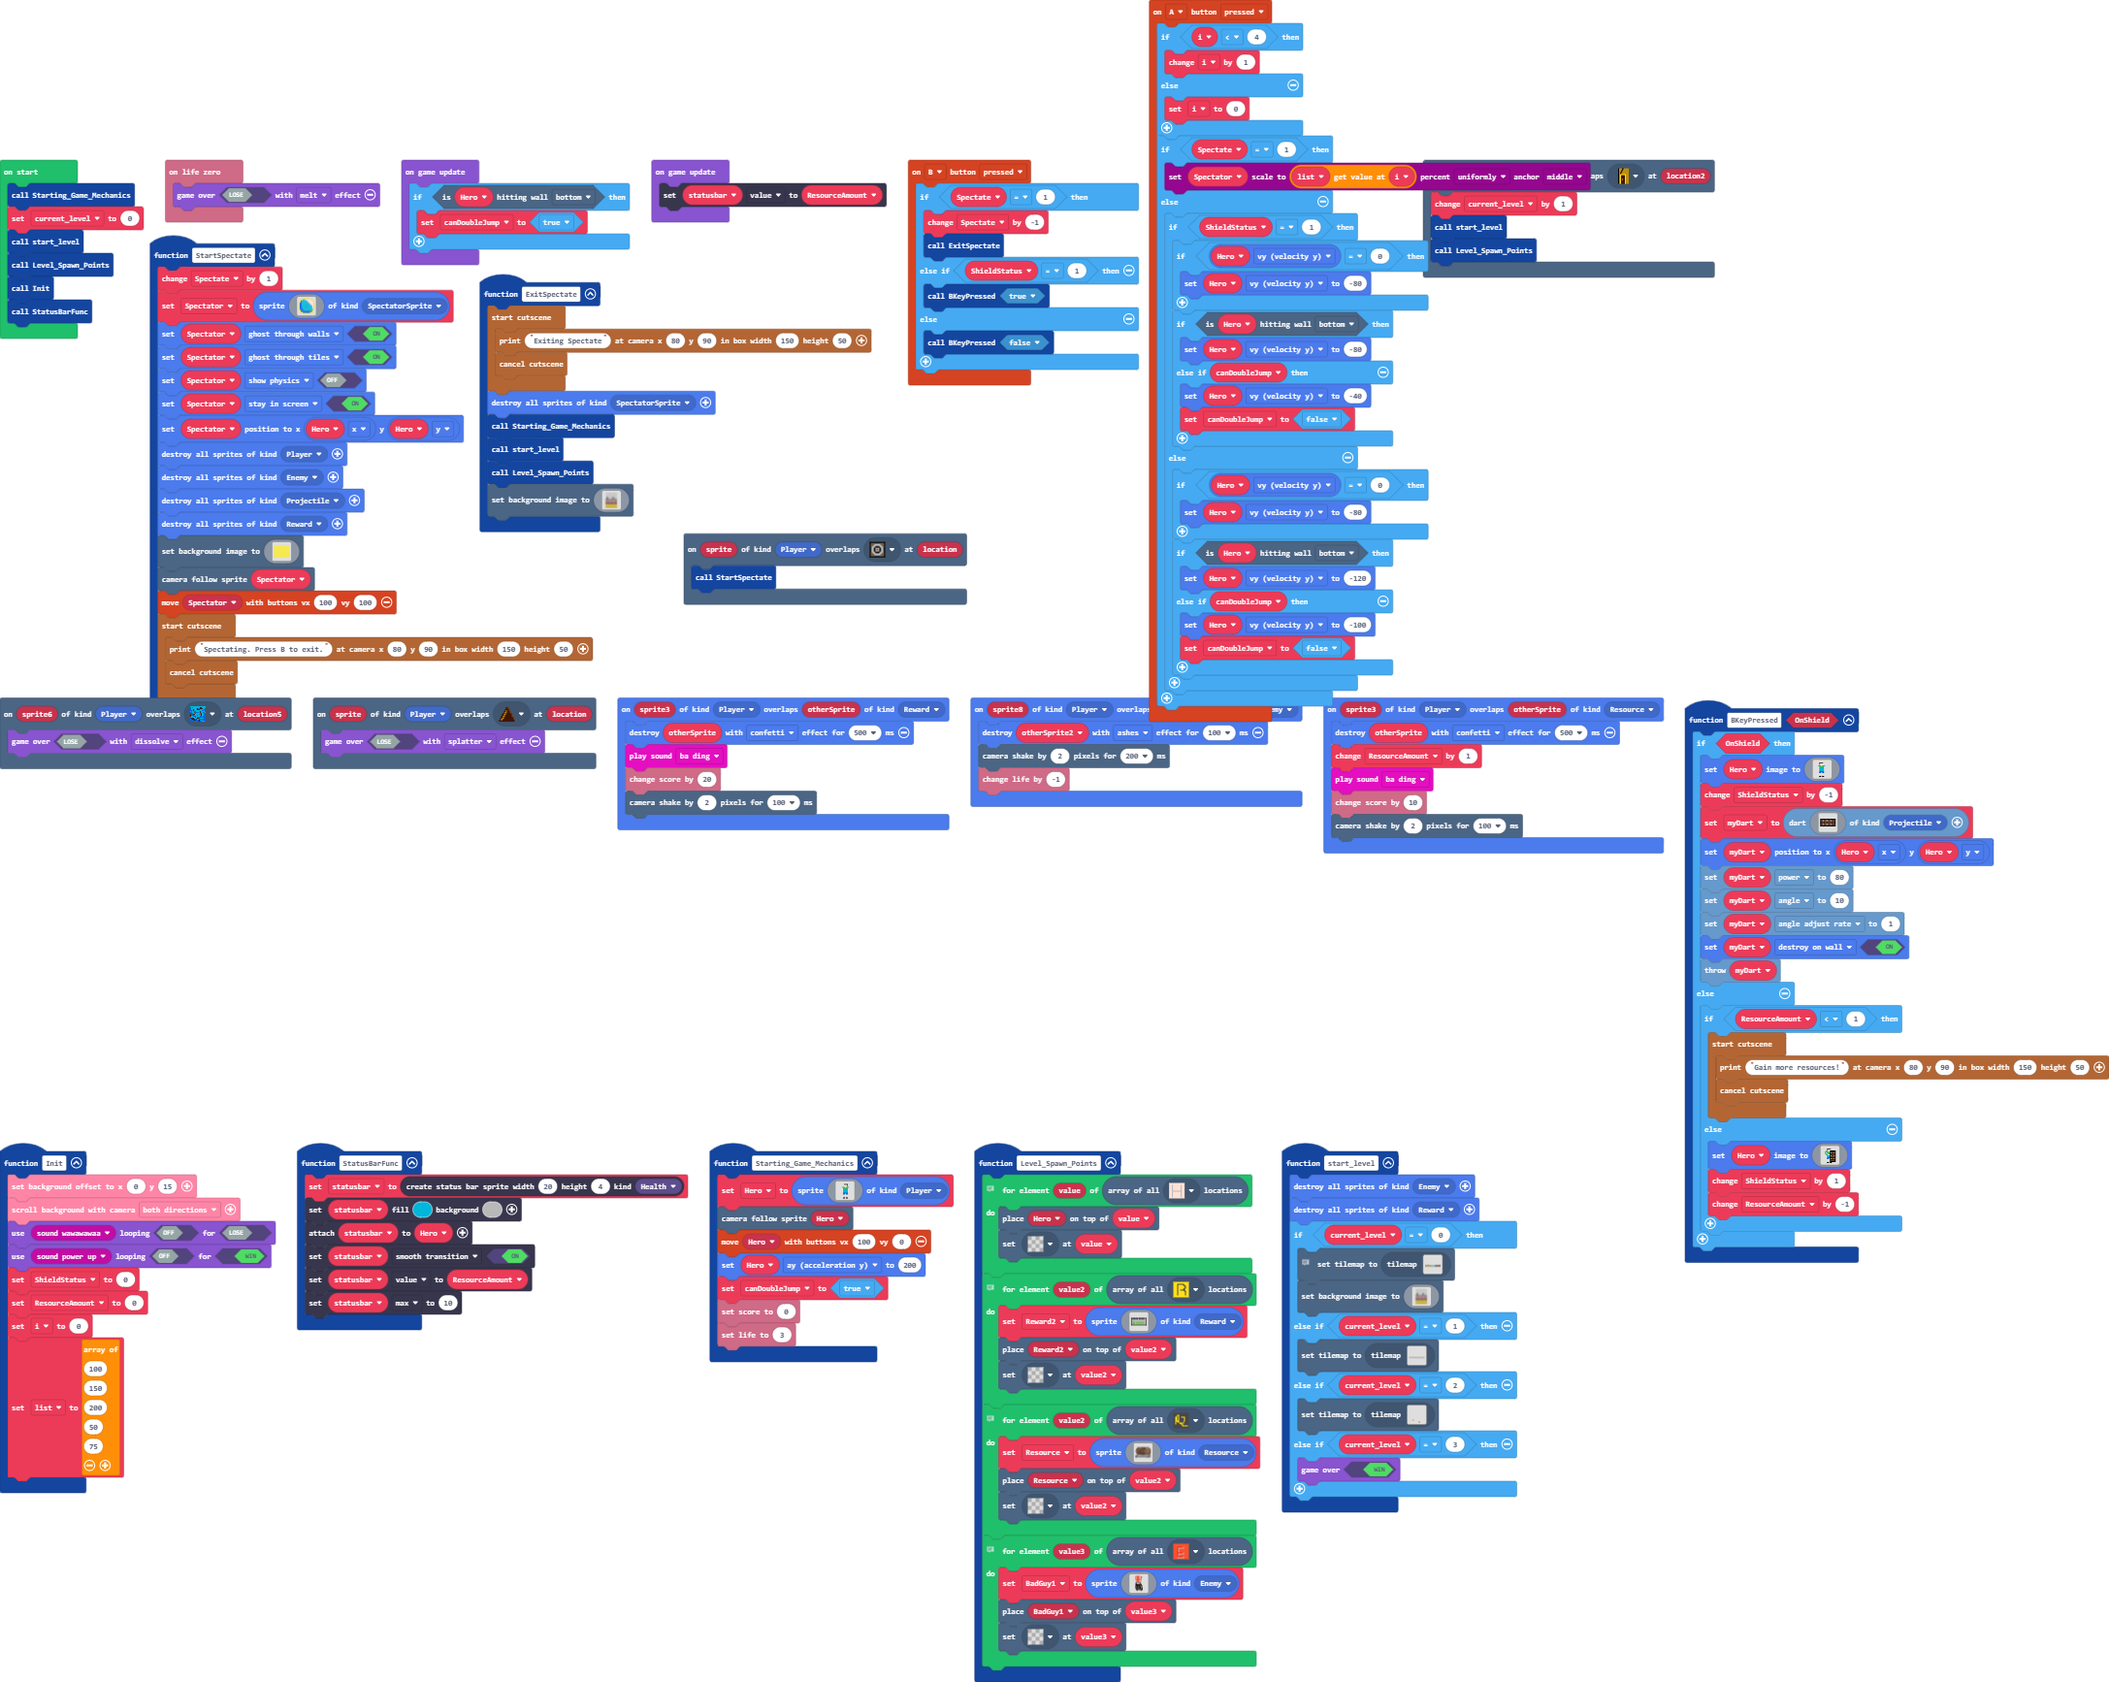
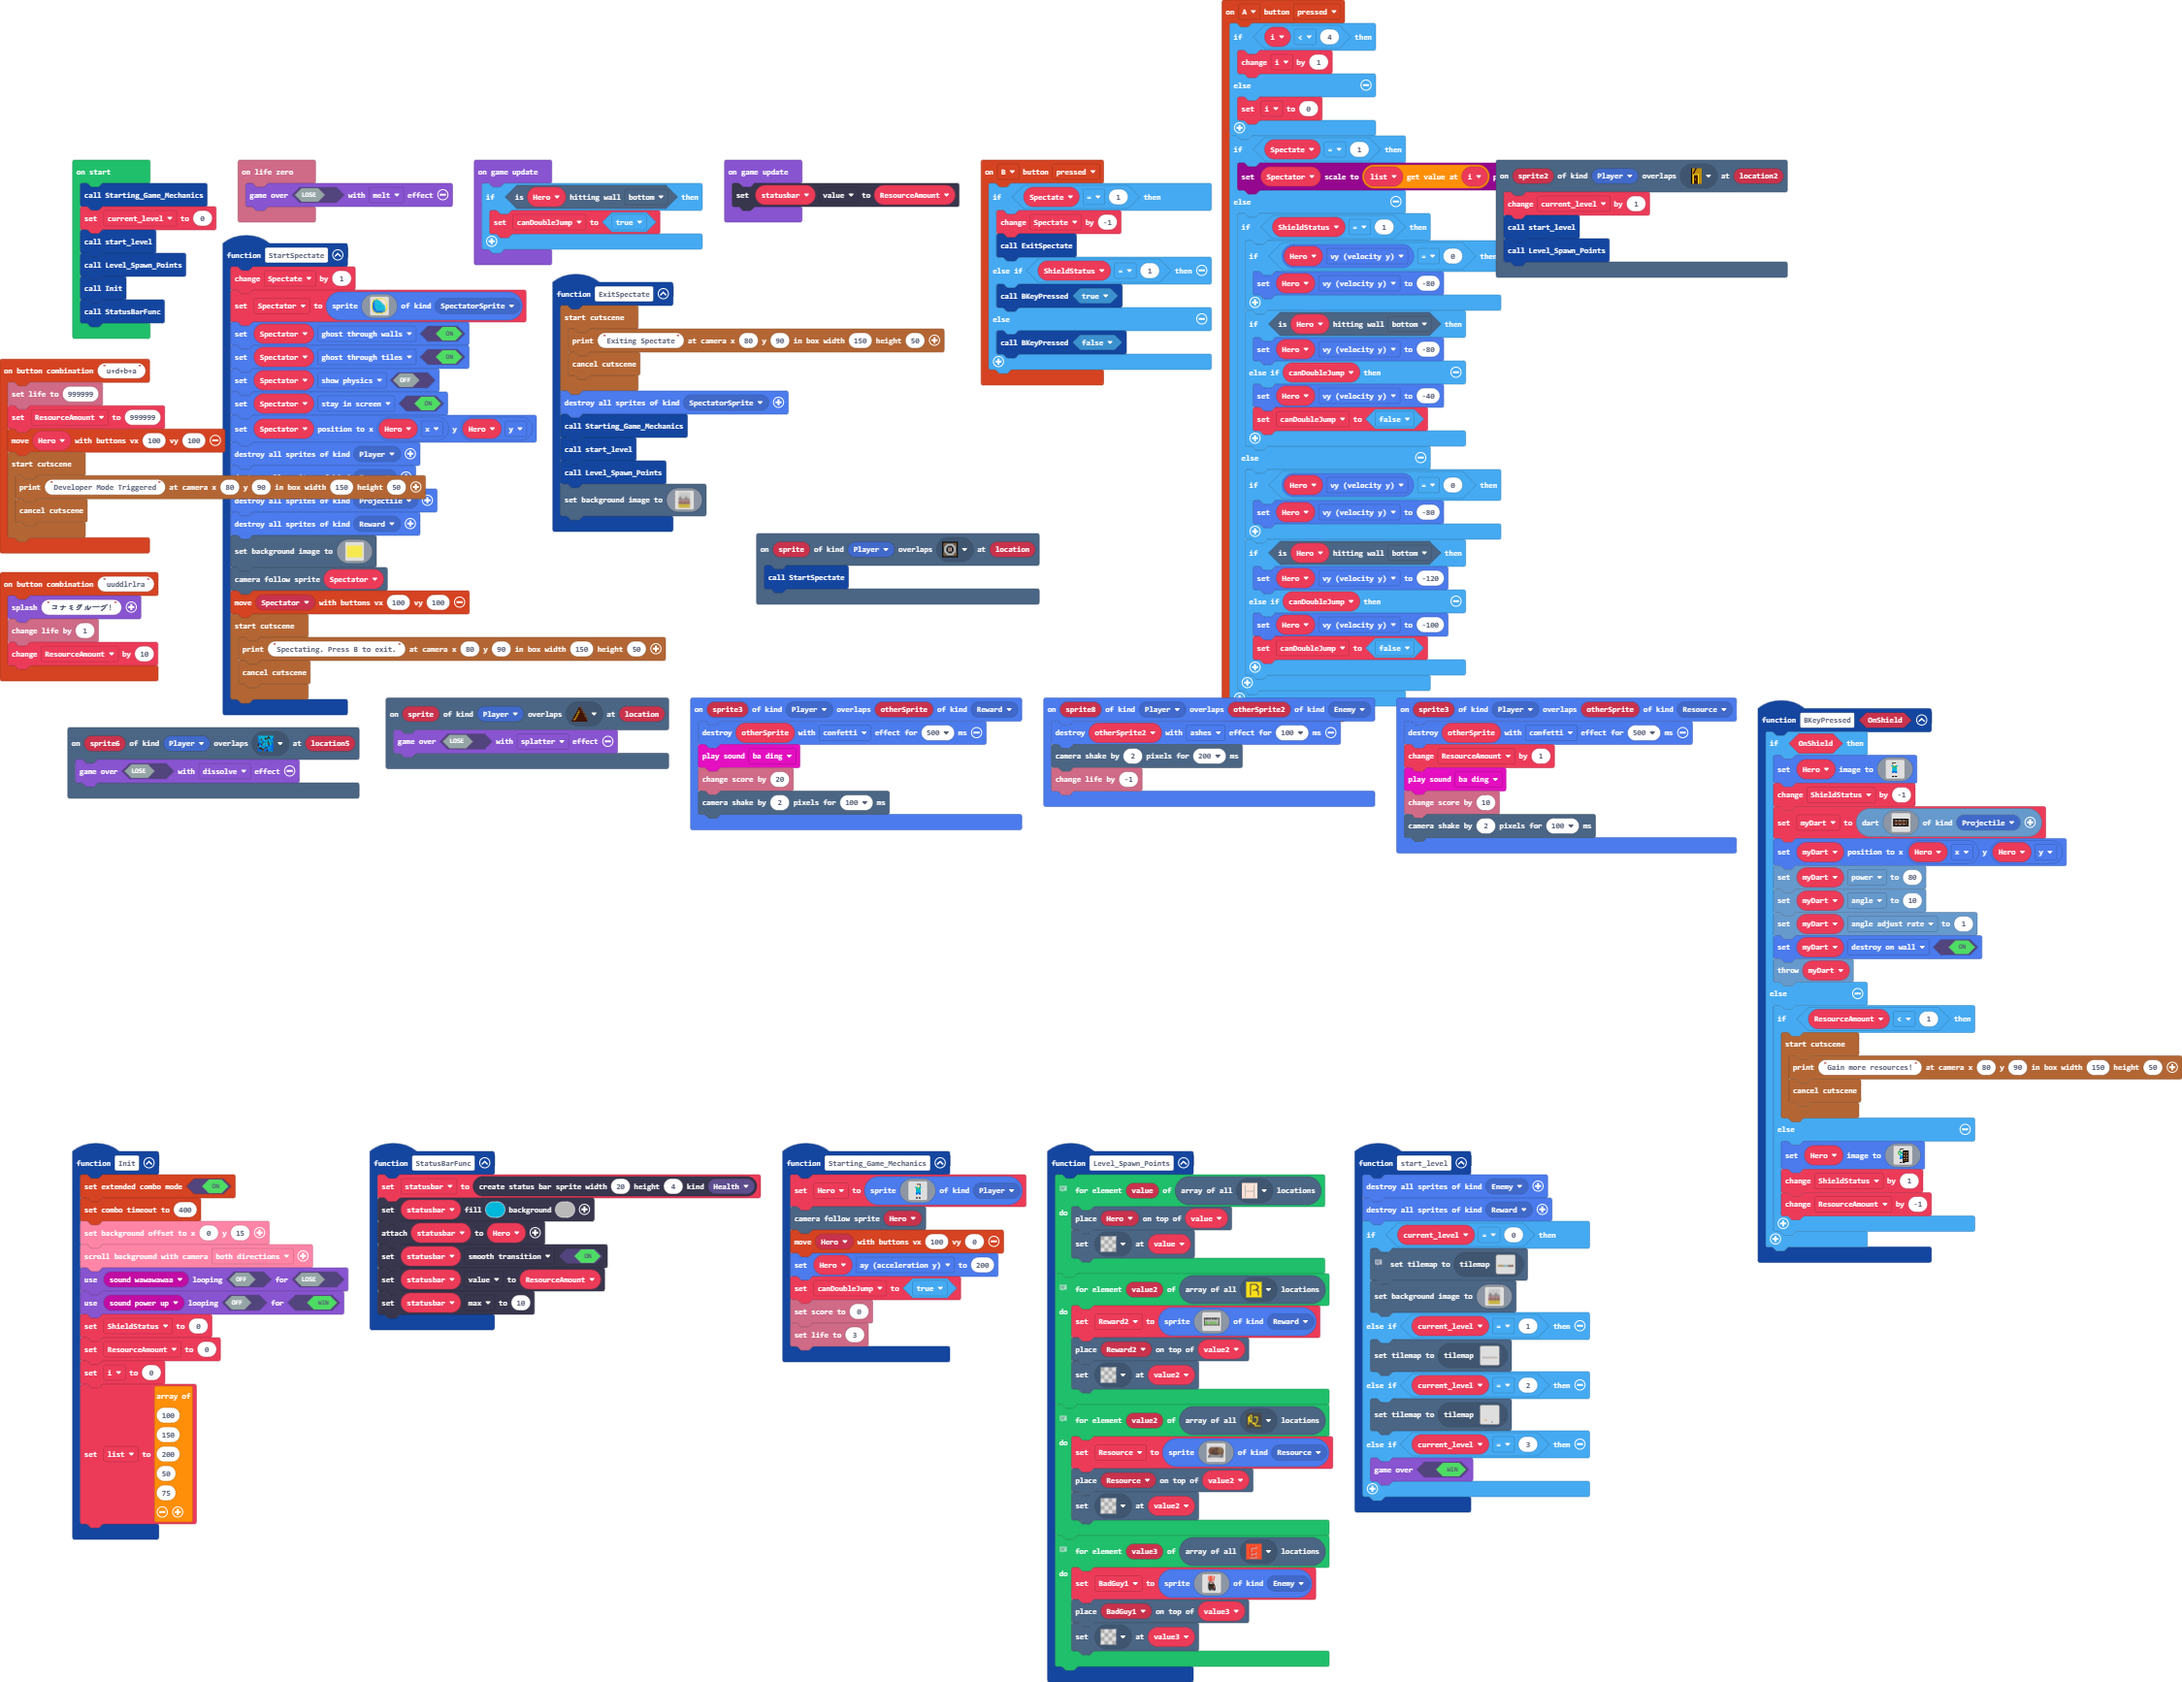
Update main.blocks, main.ts

diff --git a/main.ts b/main.ts
@@ -13,6 +13,15 @@ sprites.onOverlap(SpriteKind.Player, SpriteKind.Enemy, function (sprite8, otherS
     scene.cameraShake(2, 200)
     info.changeLifeBy(-1)
 })
+controller.combos.attachCombo("u+d+b+a", function () {
+    info.setLife(999999)
+    ResourceAmount = 999999
+    controller.moveSprite(Hero, 100, 100)
+    story.startCutscene(function () {
+        story.printDialog("Developer Mode Triggered", 80, 90, 50, 150)
+        story.cancelCurrentCutscene()
+    })
+})
 controller.B.onEvent(ControllerButtonEvent.Pressed, function () {
     if (Spectate == 1) {
         Spectate += -1
@@ -65,6 +74,11 @@ function Level_Spawn_Points () {
         tiles.setTileAt(value3, assets.tile`transparency16`)
     }
 }
+controller.combos.attachCombo("uuddlrlra", function () {
+    game.splash("コナミグループ!")
+    info.changeLifeBy(1)
+    ResourceAmount += 10
+})
 function Starting_Game_Mechanics () {
     Hero = sprites.create(assets.image`myImage0`, SpriteKind.Player)
     scene.cameraFollowSprite(Hero)
@@ -767,6 +781,8 @@ function BKeyPressed (OnShield: boolean) {
     }
 }
 function Init () {
+    controller.combos.setExtendedComboMode(true)
+    controller.combos.setTimeout(400)
     scroller.setBackgroundScrollOffset(0, 15)
     scroller.scrollBackgroundWithCamera(scroller.CameraScrollMode.BothDirections)
     game.setGameOverPlayable(false, music.melodyPlayable(music.wawawawaa), false)
@@ -791,7 +807,6 @@ scene.onOverlapTile(SpriteKind.Player, assets.tile`myTile9`, function (sprite6, 
     game.over(false, effects.dissolve)
 })
 let myDart: Dart = null
-let ResourceAmount = 0
 let statusbar: StatusBarSprite = null
 let list: number[] = []
 let Spectator: Sprite = null
@@ -800,9 +815,10 @@ let canDoubleJump = false
 let BadGuy1: Sprite = null
 let Resource: Sprite = null
 let Reward2: Sprite = null
-let Hero: Sprite = null
 let ShieldStatus = 0
 let Spectate = 0
+let Hero: Sprite = null
+let ResourceAmount = 0
 let current_level = 0
 Starting_Game_Mechanics()
 current_level = 0
